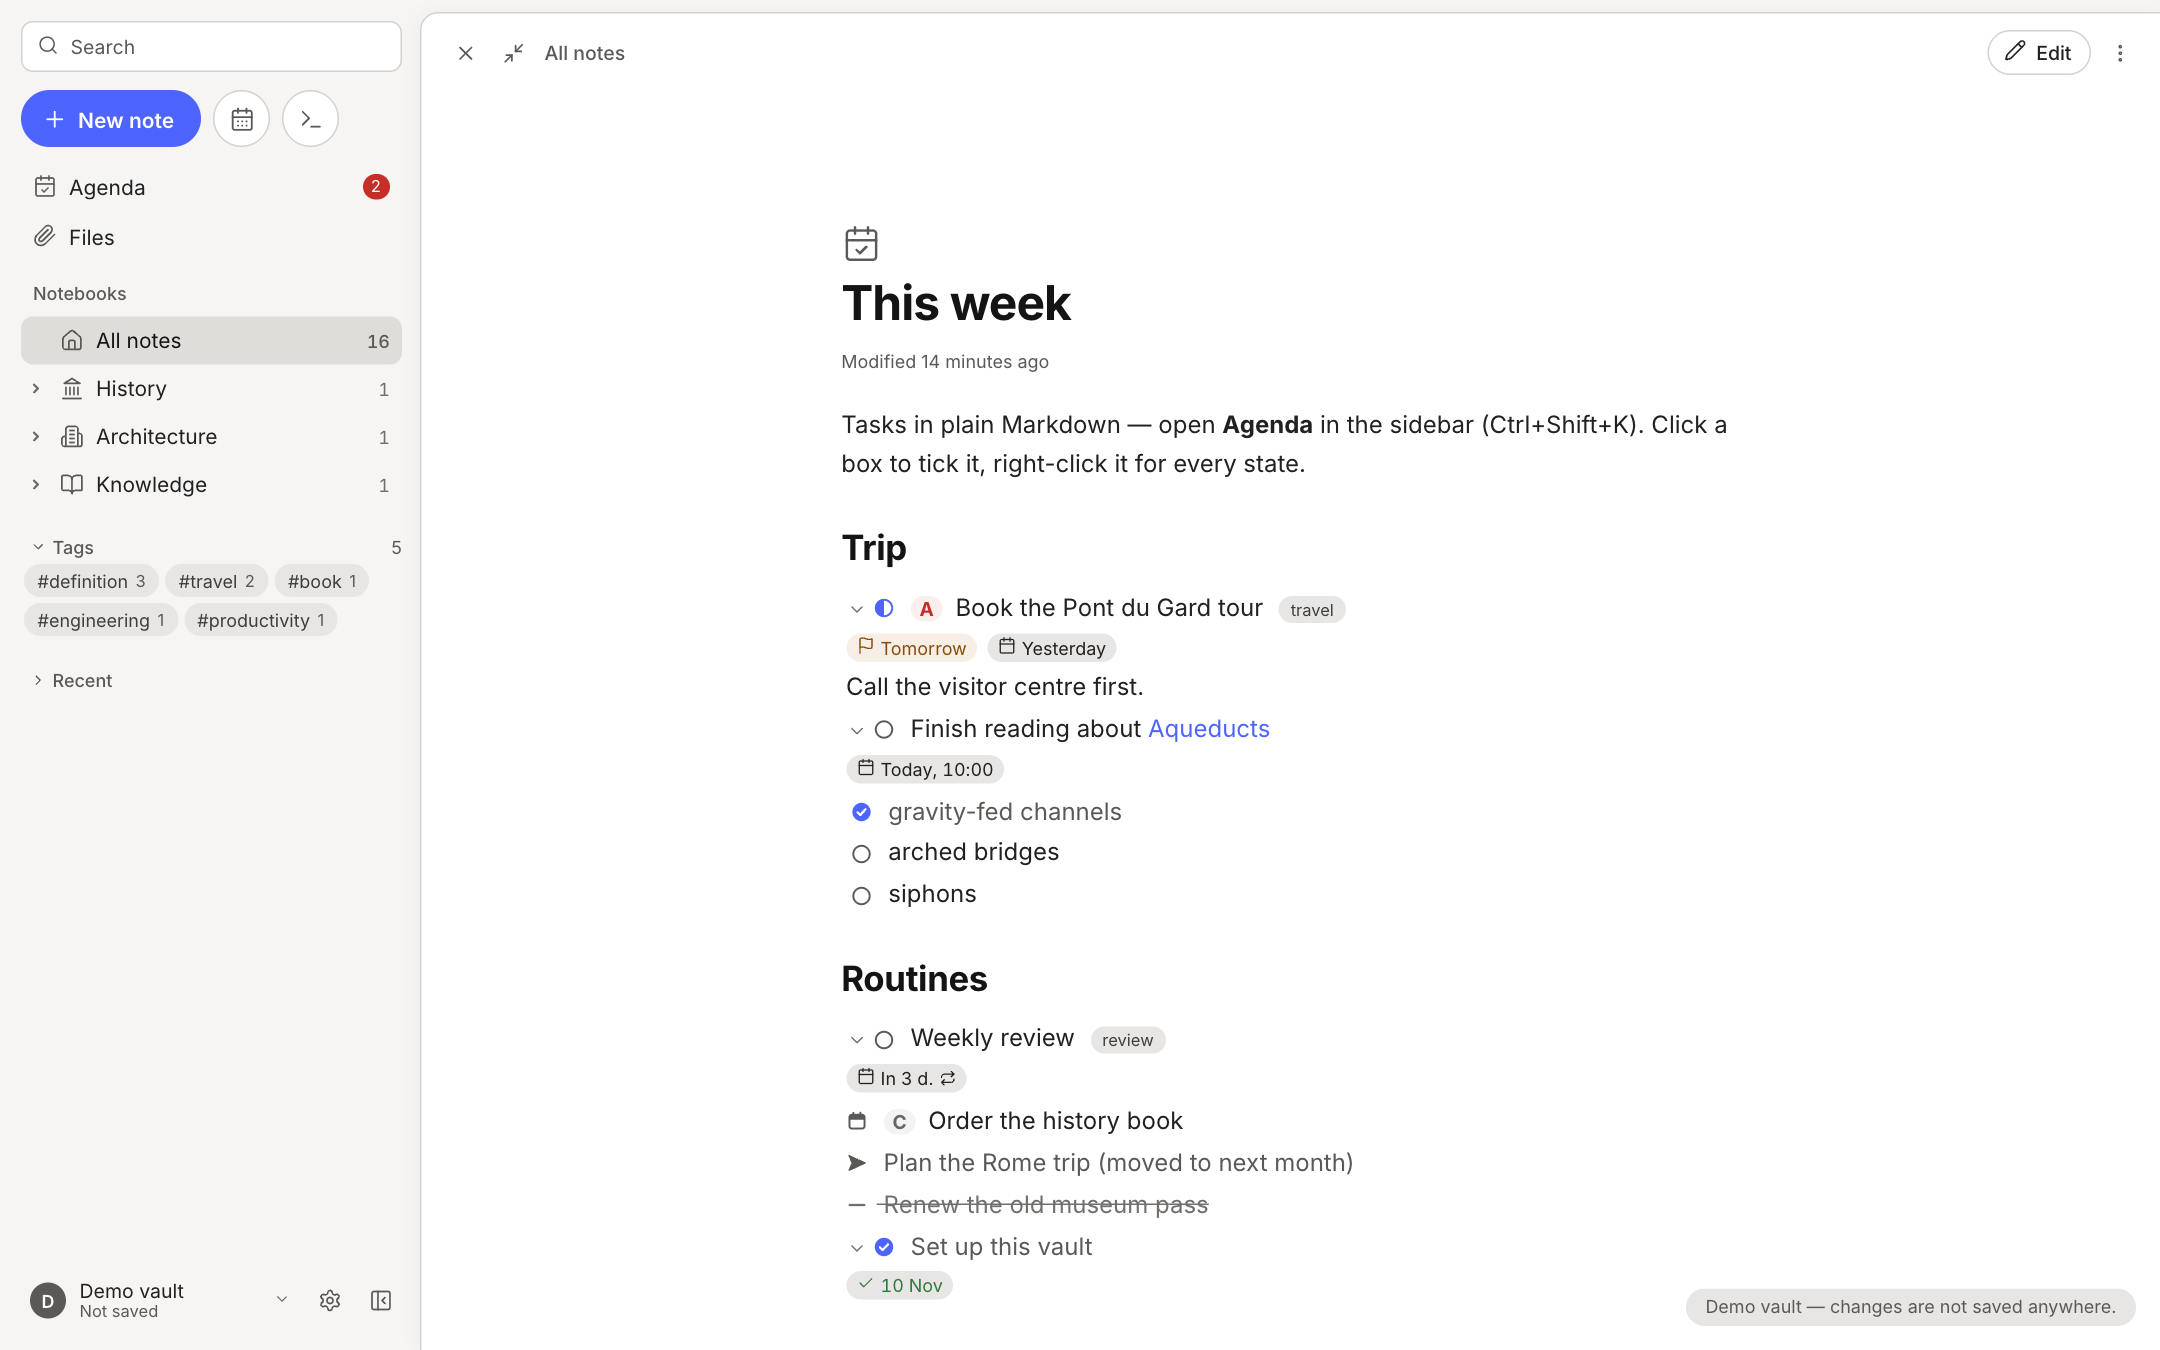
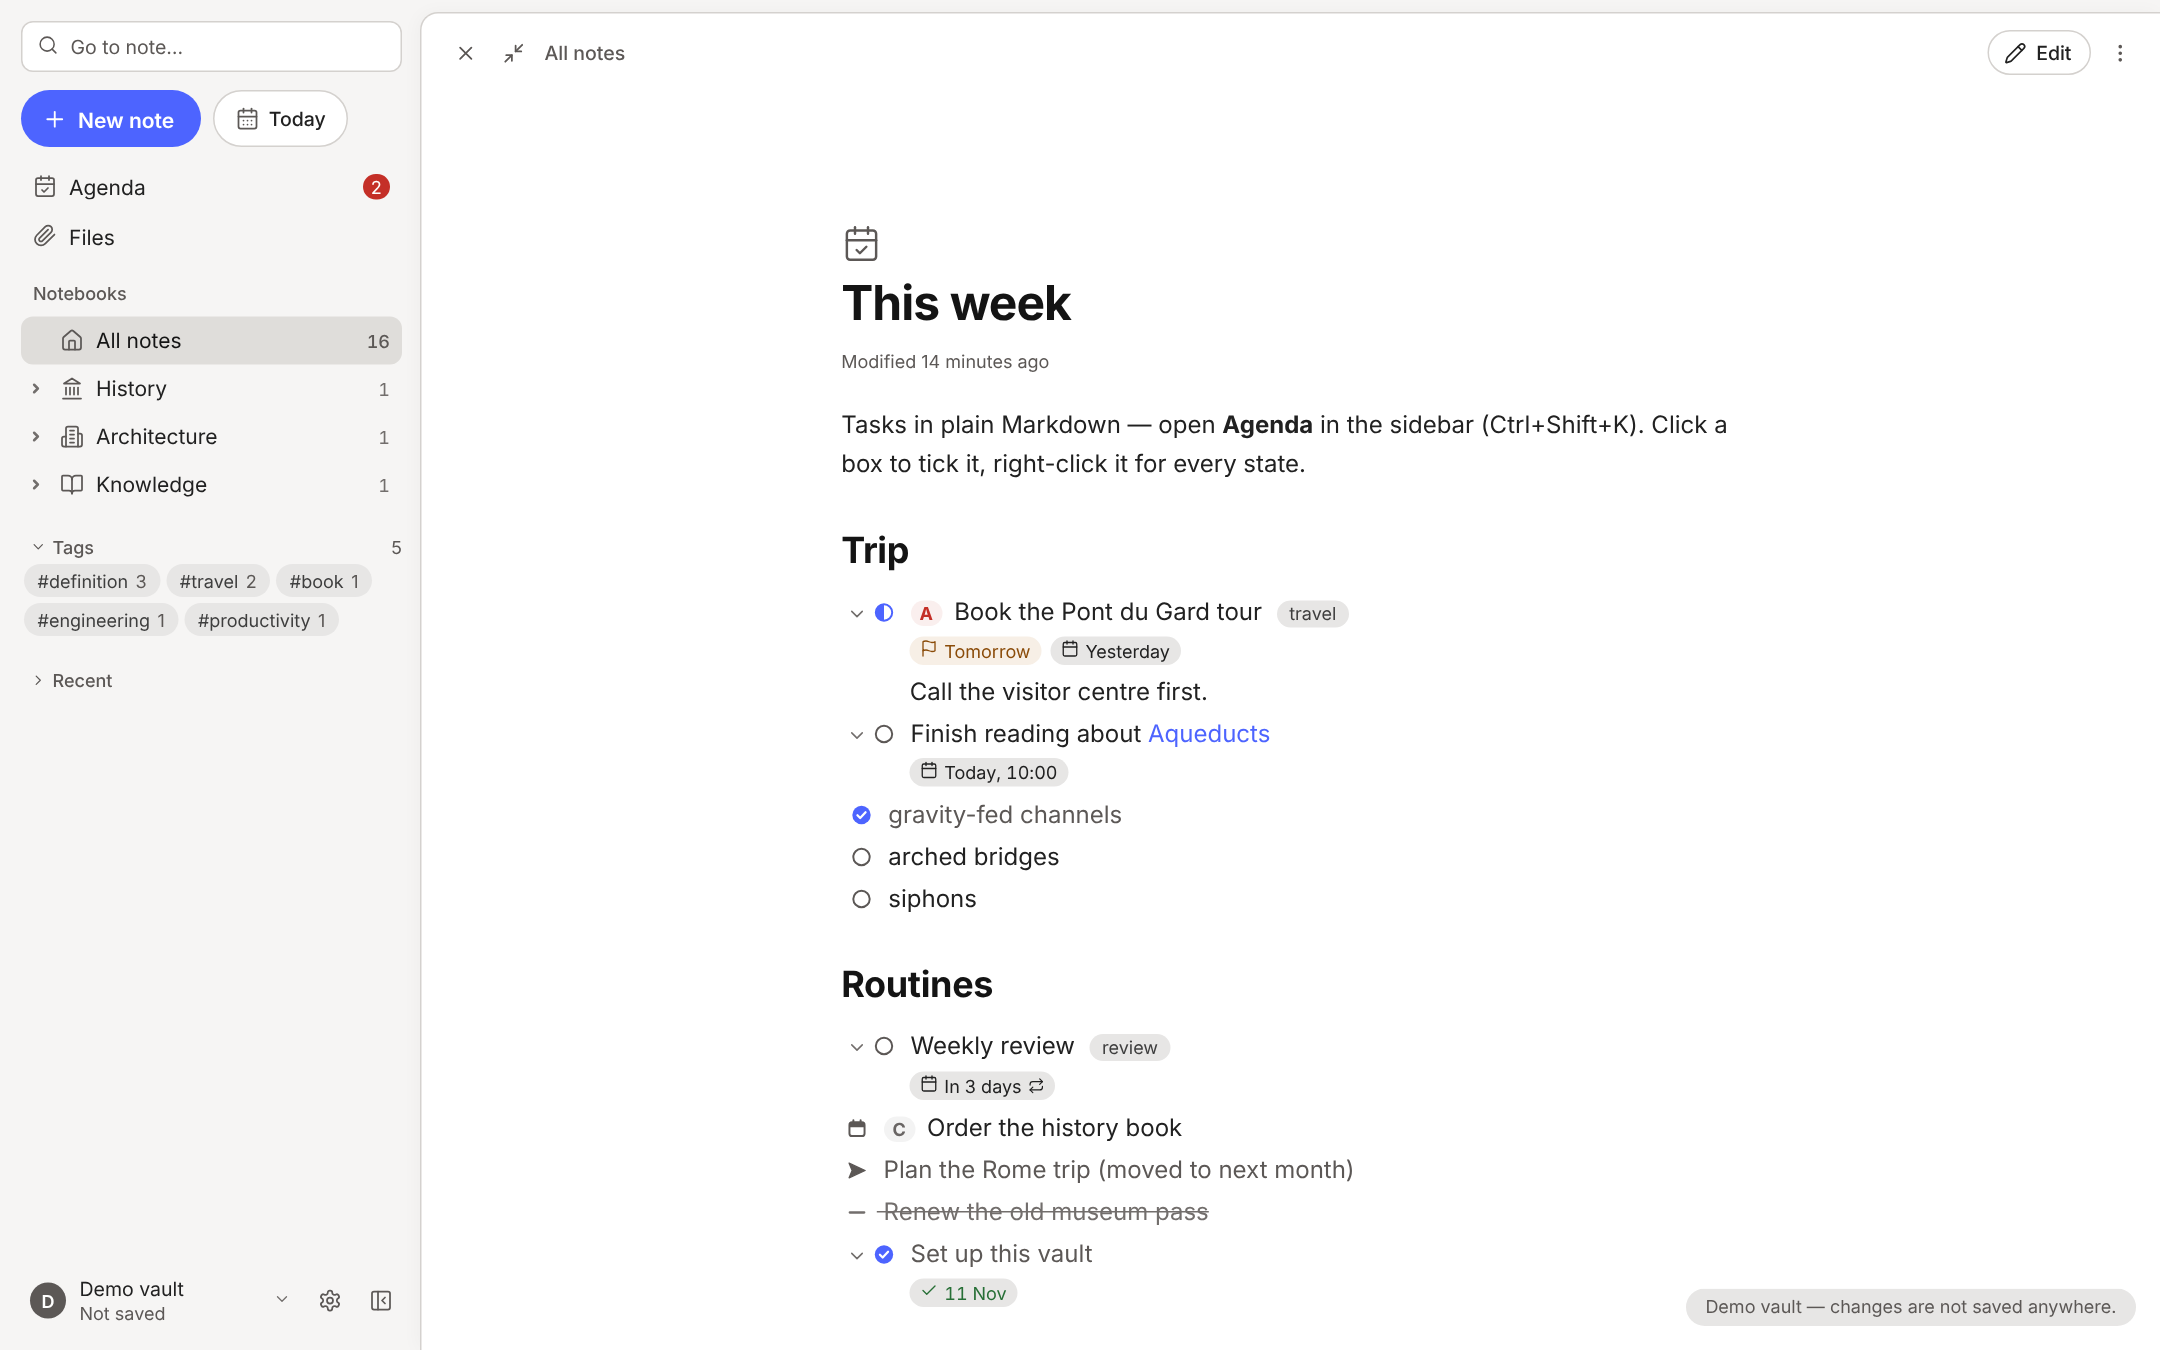
Re-shoot the README screenshots; rings on the list only after Tab (REL-1, REL-2)
The list and agenda focus rings showed whenever the app focused them
itself, which put a frame in every screenshot; they now follow Tab and
clear on the pointer. All eight screenshots are re-shot. The spec marks
REL-1 and REL-2 (desktop writes stay atomic; Android writes in place)
and leaves EXP-1 (PDF) for later.

Claude-Session: https://claude.ai/code/session_01FMk1W3EYzf2eZoLMg9owK9

diff --git a/web/src/css/writing.css b/web/src/css/writing.css
@@ -115,7 +115,9 @@ button.sn-tag-pill .n { color: var(--muted); font-size: var(--fs-xs); } /* on th
 .sn-card:focus-visible { outline: none; }
 /* panes that take the keys themselves: the selected row or card shows where you are, the pane gets no frame */
 /* a scrolling area reached with Tab shows a ring inside its edge; the agenda rings its chosen row instead (agenda.css), Files marks its chosen row */
-:is(.sn-board, .sn-reading):focus-visible { outline: none; box-shadow: inset 0 0 0 2px var(--accent); }
+:is(.sn-board, .sn-reading):focus-visible { outline: none; box-shadow: none; }
+/* only once Tab has been pressed: the app focuses these itself, and a frame then would only be noise (ui/keyboard.js sets sn-kb) */
+body.sn-kb :is(.sn-board, .sn-reading):focus-visible { box-shadow: inset 0 0 0 2px var(--accent); }
 :is(.fv-list, .ag-body):focus-visible { outline: none; box-shadow: none; }
 @media (prefers-reduced-motion: reduce) {
   *, *::before, *::after { animation-duration: 1ms !important; animation-iteration-count: 1 !important; transition-duration: 1ms !important; scroll-behavior: auto !important; }

diff --git a/web/src/css/agenda.css b/web/src/css/agenda.css
@@ -74,8 +74,8 @@ button.fchip.exc { background: color-mix(in srgb, var(--todo) 12%, transparent);
 .ag-row.sel { background: var(--accent-soft); }
 /* the keyboard's place in the agenda: a ring on the chosen row, or on the list while none is chosen (spec A11Y-2) */
 .ag-body:focus { outline: none; }
-.ag-body:focus-visible .ag-row.sel { box-shadow: inset 0 0 0 2px var(--accent); }
-.ag-body:focus-visible:not(:has(.ag-row.sel)) { box-shadow: inset 0 0 0 2px var(--accent); }
+body.sn-kb .ag-body:focus-visible .ag-row.sel { box-shadow: inset 0 0 0 2px var(--accent); }
+body.sn-kb .ag-body:focus-visible:not(:has(.ag-row.sel)) { box-shadow: inset 0 0 0 2px var(--accent); }
 .ag-main .ag-cat { margin-left: 6px; color: var(--faint); font-size: var(--fs-ui); white-space: nowrap; }
 .ag-main .ag-cat::before { content: "· "; }
 .ag-time { color: var(--fg); font-size: var(--fs-ui); white-space: nowrap; }

diff --git a/web/src/js/ui/keyboard.js b/web/src/js/ui/keyboard.js
@@ -37,6 +37,9 @@ function spatialNext(from, dir) {
   }
   return best;
 }
+// the keyboard is being used to get around: Tab marks it, the pointer clears it (the list's and agenda's focus rings follow it)
+document.addEventListener("keydown", (e) => { if (e.key === "Tab") document.body.classList.add("sn-kb"); }, true);
+document.addEventListener("pointerdown", () => document.body.classList.remove("sn-kb"), true);
 document.addEventListener("keydown", (e) => {
   if (!vault.fs || modalStack) return;
   const tgt = e.target;

diff --git a/docs/specification.md b/docs/specification.md
@@ -153,9 +153,9 @@
 | A11Y-1 | Дерево блокнотов должно иметь роли `tree` / `treeitem`, список заметок — `listbox` / `option`, с отметкой выбранного и раскрытого. Сделано: «Notebooks» и «Pinned» — деревья; у пункта есть `aria-level`, `aria-expanded` (если есть вложенные блокноты), `aria-selected` у открытого блокнота, вложенные — в `group` (`web/src/js/ui/tree.js`). Список — `listbox` с названием списка («All notes», имя блокнота или `#тег`), строки — `option` с названием заметки; выбрана открытая заметка, в режиме выбора — отмеченные, и тогда список `aria-multiselectable` (`web/src/js/ui/cards.js`, `board.js`). | Тест атрибутов и дерева доступности Chromium (`tests/a11y.test.mjs`). | ✅ |
 | A11Y-2 | По дереву, списку и повестке можно пройти с клавиатуры; фокус всегда виден. Сделано: в каждом дереве одна остановка Tab; ↑ ↓ Home End — по пунктам, → раскрывает блокнот или входит в него, ← сворачивает или поднимается к родителю, Enter и Пробел открывают список; после перерисовки фокус остаётся на том же пункте. Список — стрелками, повестка — `n` / `p` и стрелками, как было. Кольцо фокуса добавлено пункту дерева, выбранной строке повестки и самому списку, когда Tab приходит в него; раньше у списка и повестки его не было. | Тесты: проход по дереву, списку и повестке; на каждой остановке Tab (60 нажатий в списке и в повестке) у элемента есть видимое кольцо или каретка (`tests/a11y.test.mjs`). Проход с экранным диктором на Windows и Android не выполнялся: здесь нет этих устройств. | 🟡 |
 | A11Y-3 | Контраст текста к фону не ниже 4,5. Чипы дат проверяются отдельно: их цвета заданы через `color-mix`. Сделано: инструмент `tests/contrast.mjs` берёт каждый видимый текст, рисует его цвет и фоны под ним на canvas — так `color-mix()`, `color()` и `oklch()` превращаются в настоящие пиксели — и считает контраст по WCAG; крупный текст (от 24px или от 18,66px жирным) — от 3, остальной — от 4,5. Проверены заметка (правка и чтение), список, повестка (день, неделя, месяц), Files, настройки и палитра в светлой и тёмной темах на заметке со всеми видами дат. Нашлось и исправлено: унаследованные теги в повестке (3,1 и 4,2 — были полупрозрачными, стали обведёнными), счётчики дней месяца (3,97 — цвет акцента темнее) и зелёный «выполнено» в светлой теме (4,26 → `#276f36`). Не измеряются фон-картинки и градиенты, подсказки в пустых полях и состояния наведения. | Тест в обеих темах, ни одного текста ниже порога (`tests/a11y.test.mjs`). | ✅ |
-| EXP-1 | Заметку можно сохранить в PDF через печать, со стилями для бумаги: без панелей, чёрный текст на белом. | Ручная проверка. |  |
-| REL-1 | Каждое требование раздела 5 сопровождается пересъёмкой экранов README, если они изменились. | `npm run screenshots` в том же выпуске. |  |
-| REL-2 | Запись на диск остаётся атомарной: через временный файл и переименование. | Существующий Rust-тест. |  |
+| EXP-1 | Заметку можно сохранить в PDF через печать, со стилями для бумаги: без панелей, чёрный текст на белом. Не делалось: по решению отложено. | Ручная проверка. |  |
+| REL-1 | Каждое требование раздела 5 сопровождается пересъёмкой экранов README, если они изменились. Сделано: все восемь снимков `docs/screenshots/` пересняты после разделов 5 и 6 и просмотрены. По пути найдено и исправлено: новое кольцо фокуса у списка появлялось и без клавиатуры (приложение само ставит фокус на список), теперь оно видно только после нажатия Tab. | `npm run screenshots` в том же выпуске. | ✅ |
+| REL-2 | Запись на диск остаётся атомарной: через временный файл и переименование. Так и есть на компьютере: `write` в `tauri-plugin-vault/src/desktop.rs` пишет во временный `.имя.supstack-tmp` и переименовывает; если переименование не удалось, пишет прямо в файл. На Android запись идёт через SAF на месте (обрезать и записать) — атомарной она там не была и не стала. | Существующий Rust-тест `write_creates_folders_and_leaves_no_temporary_file` проходит. | ✅ |
 
 ## 7. Порядок выпусков
 
